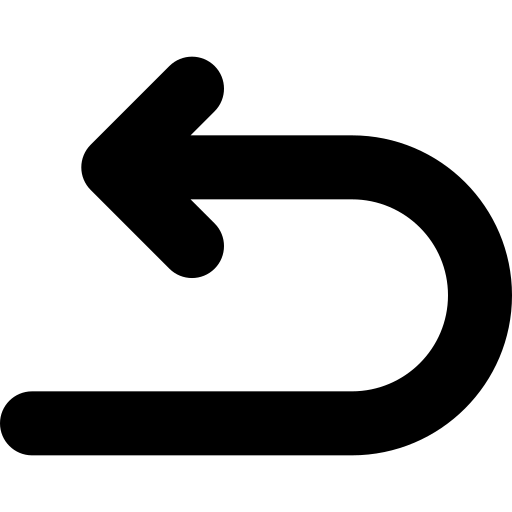
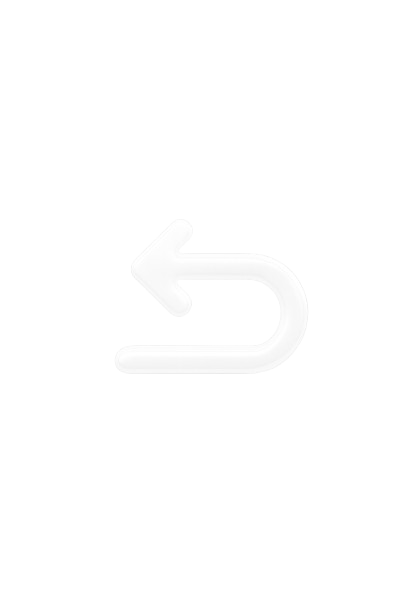
Avande de interfax de paciente y de formulario

Changed region(s): [[0.0, 0.0938, 1.0, 0.9062]]

diff --git a/Dentify/src/main/resources/com/example/dentify/styles.css b/Dentify/src/main/resources/com/example/dentify/styles.css
@@ -22,7 +22,7 @@
 
 /* Botón volver */
 .back-button {
-    -fx-background-color: #0A6966;
+    -fx-background-color: transparent;
     -fx-background-radius: 12px;
     -fx-text-fill: white;
     -fx-font-size: 22px;
@@ -149,4 +149,26 @@
 .text-field-custom:focused {
     -fx-border-color: #0FA6A6;
     -fx-border-width: 2px;
+}
+
+.table-view {
+    -fx-background-color: white;
+    -fx-border-color: #0A3459;
+    -fx-border-width: 1px;
+    -fx-border-radius: 8px;
+    -fx-background-radius: 8px;
+}
+
+.table-view .column-header {
+    -fx-background-color: #F2F2F2;
+    -fx-border-color: transparent transparent #0A3459 transparent;
+}
+
+.table-view .column-header .label {
+    -fx-text-fill: #0A3459;
+    -fx-font-weight: bold;
+}
+
+.text-field-custom {
+    -fx-pref-height: 45px;
 }